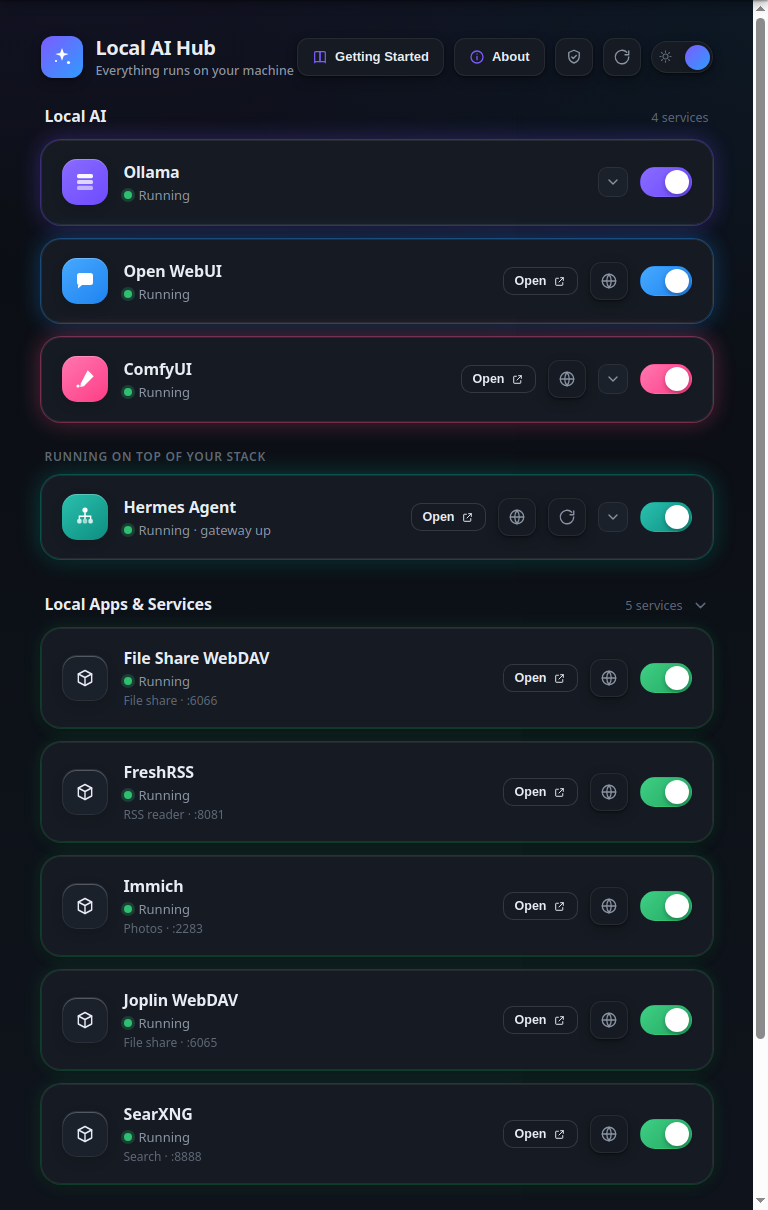
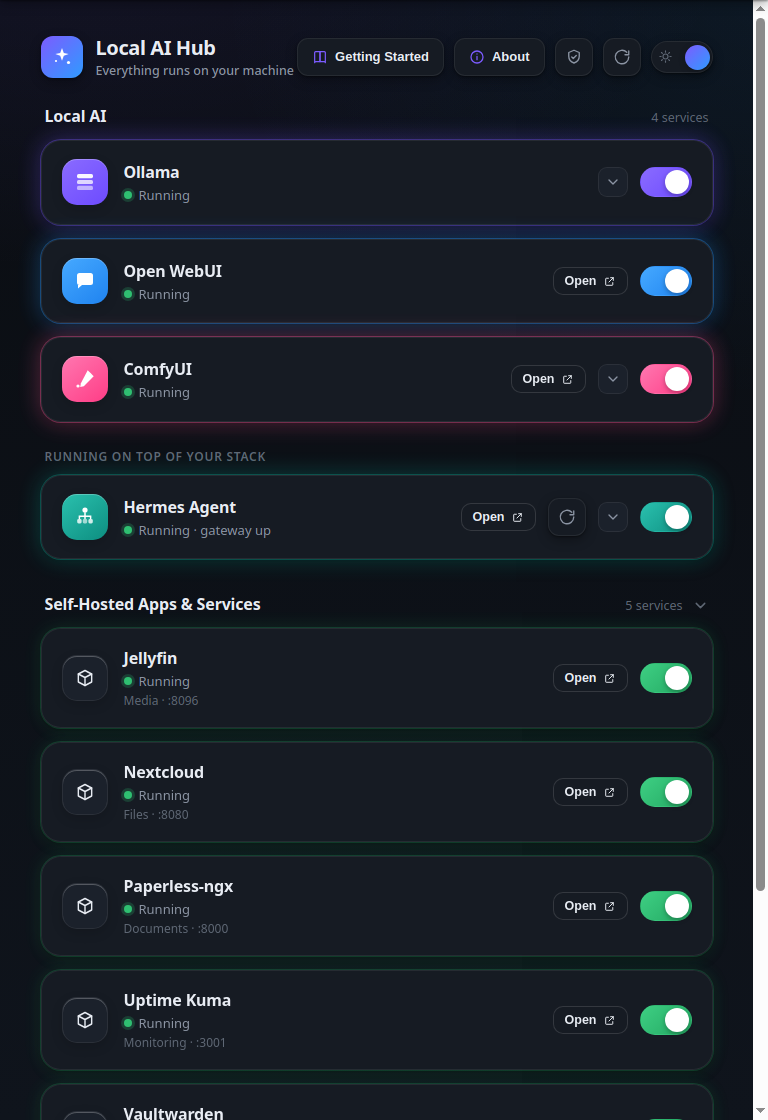
Rename the second group to Self-Hosted Apps & Services, and de-personalise the screenshots
"Local Apps" read as though it meant applications installed on the machine,
which is the one thing that section is not about. Renamed in the UI, README,
in-app guide, MetaInfo and the GitHub description. The 1.3.0 changelog entry
keeps the old name on purpose — it records what shipped, not what it was later
called.

The screenshots are the bigger change. A screenshot of this app is a screenshot
of somebody's machine: the second group lists exactly what they self-host by
name and port, and the 1.2.0 shots additionally printed the endpoint the Hermes
card talks to. tools/shoot_readme.py now renders them from a fixed generic
payload, so the pictures show the layout without showing anyone's setup — and
stay identical whatever happens to be installed on the machine cutting a
release.

diff --git a/web/index.html b/web/index.html
@@ -40,7 +40,7 @@
 
     <section class="group" id="groupApps" hidden>
       <button class="group-head is-toggle" id="appsHead" aria-expanded="true" aria-controls="apps">
-        <span class="group-title">Local Apps &amp; Services</span>
+        <span class="group-title">Self-Hosted Apps &amp; Services</span>
         <span class="group-right">
           <span class="group-count" id="appsCount"></span>
           <span class="group-chev" id="appsChev"></span>

diff --git a/web/app.js b/web/app.js
@@ -105,7 +105,7 @@
     appsCollapsed: null,   // null = decide from the count on first render
   };
 
-  // Above this many services, "Local Apps & Services" starts collapsed. Six fits
+  // Above this many services, "Self-Hosted Apps & Services" starts collapsed. Six fits
   // on screen under the AI section without pushing it out of view; a dozen
   // containers would bury the tools this app is actually about.
   const APPS_COLLAPSE_THRESHOLD = 6;

diff --git a/tools/shoot_readme.py b/tools/shoot_readme.py
@@ -1,0 +1,109 @@
+"""Render the README / MetaInfo screenshots from representative demo data.
+
+Screenshots of this app are screenshots of somebody's machine: the second group
+lists exactly what they self-host, by name and port, and an expanded Hermes card
+prints the endpoint it talks to. That is a homelab inventory, and it does not
+belong in a public repository just because it was convenient to capture.
+
+So the shots are taken against a fixed demo payload instead — the same approach
+the front-end already takes for its no-backend SAMPLE data. Nothing here is read
+from the machine running it, which also means the pictures stay identical
+whatever is installed on the release box.
+
+Usage: shoot_readme.py <out.png> <light|dark> <width> <height>
+"""
+from __future__ import annotations
+
+import json
+import os
+import sys
+from pathlib import Path
+
+os.environ["QT_QPA_PLATFORM"] = "offscreen"
+os.environ["QTWEBENGINE_CHROMIUM_FLAGS"] = "--disable-gpu --no-sandbox"
+sys.path.insert(0, str(Path(__file__).resolve().parent.parent))
+
+from PySide6.QtCore import QTimer  # noqa: E402
+from PySide6.QtWidgets import QApplication  # noqa: E402
+
+import app as appmod  # noqa: E402
+
+
+def service(active=True):
+    return {"active": active, "serving": active, "failed": False,
+            "present": True, "result": ""}
+
+
+def app_entry(name, kind, port):
+    return {"key": f"container:{name.lower().replace(' ', '-')}.service",
+            "unit": f"{name.lower().replace(' ', '-')}.service",
+            "name": name, "kind": kind, "container": name.lower(),
+            "active": True, "serving": True, "port": port,
+            "bound_host": "127.0.0.1",
+            "reachable": [{"kind": "loopback", "url": f"http://127.0.0.1:{port}",
+                           "meaning": "Only on this computer"}]}
+
+
+# A plausible, entirely generic homelab. Five entries keeps the group expanded
+# (the collapse threshold is six) so the layout is what the picture shows.
+DEMO = {
+    "services": {"ollama": service(), "openwebui": service(), "comfyui": service()},
+    "models": [],
+    "comfyui_models": [],
+    "addresses": {"loopback": {"host": "127.0.0.1", "meaning": "Only on this computer"}},
+    "layers": [{
+        "key": "hermes", "name": "Hermes Agent",
+        "tagline": "Agent harness", "depends_on": "ollama",
+        "active": True, "serving": True, "failed": False, "present": True,
+        # The card renders folded, so none of this is visible; it is here only
+        # so the card has the shape it has in real use.
+        "info": {"reachable": True, "version": "0.20.0", "gateway": "running",
+                 "gateway_running": True, "active_agents": 0, "auth_required": True,
+                 "model": "", "context": None, "backend_url": "",
+                 "dashboard_url": "http://127.0.0.1:9119",
+                 "api_url": "http://127.0.0.1:8642", "unavailable": []},
+        "dependency": {"key": "ollama", "name": "Ollama", "active": True, "present": True},
+        "model_state": {"known": False},
+    }],
+    "apps": {"supported": True, "limit": None, "items": [
+        app_entry("Jellyfin", "Media", 8096),
+        app_entry("Nextcloud", "Files", 8080),
+        app_entry("Paperless-ngx", "Documents", 8000),
+        app_entry("Uptime Kuma", "Monitoring", 3001),
+        app_entry("Vaultwarden", "Passwords", 8222),
+    ]},
+}
+
+
+def main() -> int:
+    out, theme = sys.argv[1], sys.argv[2]
+    width = int(sys.argv[3]) if len(sys.argv) > 3 else 768
+    height = int(sys.argv[4]) if len(sys.argv) > 4 else 1210
+
+    qapp = QApplication(sys.argv)
+    win = appmod.MainWindow()
+    win.resize(width, height)
+    win.show()
+
+    def go():
+        # The live backend would otherwise push this machine's real state over
+        # the demo payload a second or two after it is injected.
+        win.refresh_timer.stop()
+        try:
+            win.watcher.changed.disconnect()
+        except Exception:
+            pass
+        win.view.page().runJavaScript(
+            f"document.documentElement.dataset.theme='{theme}';"
+            f"window.__applyState({json.dumps(DEMO)});",
+            lambda _r: None)
+        QTimer.singleShot(1400, lambda: (
+            win.view.grab().save(out, "PNG"), print(f"saved {out}"), qapp.quit()))
+
+    # Long enough for QtWebEngine to have loaded and wired the channel.
+    QTimer.singleShot(6500, go)
+    return qapp.exec()
+
+
+if __name__ == "__main__":
+    sys.exit(main())

diff --git a/hub/guide.py b/hub/guide.py
@@ -219,7 +219,7 @@ GUIDE = {
                     "id": "apps",
                     "title": "Your other self-hosted services",
                     "blocks": [
-                        {"type": "p", "text": "Below the AI stack, Local AI Hub lists whatever else you self-host, under \"Local Apps & Services\". You don't configure this and there's no list of supported apps — it asks Podman what's actually running."},
+                        {"type": "p", "text": "Below the AI stack, Local AI Hub lists whatever else you self-host, under \"Self-Hosted Apps & Services\". You don't configure this and there's no list of supported apps — it asks Podman what's actually running."},
                         {"type": "h", "text": "What shows up, and what doesn't"},
                         {"type": "p", "text": "A container appears when two things are true: Podman Quadlet generated it (which is what gives it a systemd unit the app can start and stop), and it publishes at least one port. That second rule is why a toolbox or a container you started by hand with `podman run` stays out — there's nothing to open and nothing to check for life."},
                         {"type": "p", "text": "A pod shows as one entry, not one per container. Immich is five containers behind a single port; five cards for one app would be noise."},

diff --git a/hub/__init__.py b/hub/__init__.py
@@ -1,3 +1,3 @@
 """local-ai-hub — backend package for controlling local AI services."""
 
-__version__ = "1.3.0"
+__version__ = "1.3.1"

diff --git a/README.md b/README.md
@@ -5,7 +5,7 @@
   <b>Local AI</b> first — <a href="https://ollama.com">Ollama</a>,
   <a href="https://openwebui.com">Open&nbsp;WebUI</a>,
   <a href="https://github.com/comfyanonymous/ComfyUI">ComfyUI</a>, and agent harnesses on top —
-  and below it <b>Local Apps &amp; Services</b>, whatever else you run in rootless Podman,
+  and below it <b>Self-Hosted Apps &amp; Services</b>, whatever else you run in rootless Podman,
   found automatically. Start/stop each one, watch live status, manage models,
   and see the address that actually works from your phone.
 </p>
@@ -18,9 +18,9 @@
 </p>
 
 <p align="center">
-  <img src="assets/screenshot-dark.png" alt="Local AI Hub — dark theme, showing the Local AI and Local Apps &amp; Services groups" width="380">
+  <img src="assets/screenshot-dark.png" alt="Local AI Hub — dark theme, showing the Local AI and Self-Hosted Apps &amp; Services groups" width="380">
   &nbsp;
-  <img src="assets/screenshot-light.png" alt="Local AI Hub — light theme, showing the Local AI and Local Apps &amp; Services groups" width="380">
+  <img src="assets/screenshot-light.png" alt="Local AI Hub — light theme, showing the Local AI and Self-Hosted Apps &amp; Services groups" width="380">
 </p>
 <p align="center">
   <img src="assets/screenshot-narrow.png" alt="Local AI Hub at a narrow window width" width="240">
@@ -54,7 +54,7 @@ full manual walkthrough (every command verified against a working machine).
 
 ## ✨ Features
 
-- **Two clear groups** — **Local AI** on top (the tools this app is about), **Local Apps & Services** below. The second group collapses, and starts collapsed past six services, so a big homelab never buries the AI stack.
+- **Two clear groups** — **Local AI** on top (the tools this app is about), **Self-Hosted Apps & Services** below. The second group collapses, and starts collapsed past six services, so a big homelab never buries the AI stack.
 - **Your other self-hosted services, found automatically** — the app asks Podman what's actually running rather than checking a list of supported names, so your Jellyfin or Nextcloud shows up the same way. Well-known services get a proper label; anything else is shown honestly by container name and port. Pods collapse to one entry, and containers you ran by hand stay out.
 - **One toggle per service** — start/stop anything in either group (systemd `--user`), live status from a real liveness check, not just "the container exists".
 - **Open in browser** — one click to each running web UI, always via `127.0.0.1` (never `localhost`).

diff --git a/CHANGELOG.md b/CHANGELOG.md
@@ -5,6 +5,22 @@ All notable changes to Local AI Hub are documented here.
 The format is based on [Keep a Changelog](https://keepachangelog.com/en/1.1.0/),
 and this project follows [Semantic Versioning](https://semver.org/spec/v2.0.0.html).
 
+## [1.3.1] — 2026-08-10
+
+### Changed
+- The second group is now called **Self-Hosted Apps & Services**, everywhere:
+  the app, the README, the in-app guide and the store listing. "Local Apps"
+  read as though it meant applications installed on the machine, which is the
+  one thing the section is not about.
+
+### Fixed
+- The README and store screenshots showed the real services, ports and endpoint
+  of the machine they were captured on — a homelab inventory that has no reason
+  to be in a public repository. They are now rendered from fixed demo data
+  (`tools/shoot_readme.py`), so they show the layout without showing anyone's
+  setup, and stay identical whatever is installed on the machine that builds a
+  release.
+
 ## [1.3.0] — 2026-08-10
 
 ### Added
@@ -153,6 +169,7 @@ WebUI, and ComfyUI — built and verified on Bazzite with AMD Strix Halo hardwar
 - **Distribution** — a portable AppImage and a standalone (no-Python) build, plus
   a Flatpak that controls the host systemd services over D-Bus inside the sandbox.
 
+[1.3.1]: https://github.com/kamsiob/LocalAIHub/releases/tag/v1.3.1
 [1.3.0]: https://github.com/kamsiob/LocalAIHub/releases/tag/v1.3.0
 [1.2.1]: https://github.com/kamsiob/LocalAIHub/releases/tag/v1.2.1
 [1.2.0]: https://github.com/kamsiob/LocalAIHub/releases/tag/v1.2.0

diff --git a/docs/GETTING_STARTED.md b/docs/GETTING_STARTED.md
@@ -313,7 +313,7 @@ If Hermes is only published on a remote address (a Tailscale IP, say), nothing a
 
 ### Your other self-hosted services
 
-Below the AI stack, Local AI Hub lists whatever else you self-host, under "Local Apps & Services". You don't configure this and there's no list of supported apps — it asks Podman what's actually running.
+Below the AI stack, Local AI Hub lists whatever else you self-host, under "Self-Hosted Apps & Services". You don't configure this and there's no list of supported apps — it asks Podman what's actually running.
 
 #### What shows up, and what doesn't
 

diff --git a/FLATHUB_RESUBMIT.md b/FLATHUB_RESUBMIT.md
@@ -46,7 +46,7 @@ The only Local AI Hub installed on the machine today is the 1.3.0 AppImage at
 points at. An AppImage recording will not satisfy checklist item 2 — it asks
 specifically for the app running as a Flatpak.
 
-Expect the Flatpak build to show an **empty "Local Apps & Services" section with
+Expect the Flatpak build to show an **empty "Self-Hosted Apps & Services" section with
 a note explaining it can't look**, because the sandbox has no route to podman.
 That is correct behaviour and worth understanding before it appears on camera.
 
